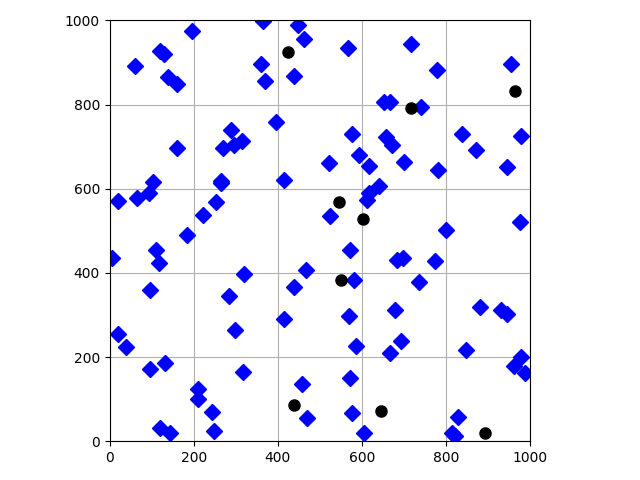
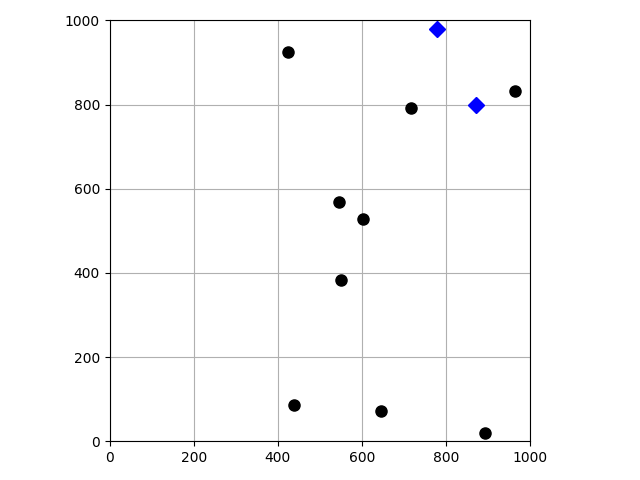
1

diff --git a/system_setting.py b/system_setting.py
@@ -9,13 +9,13 @@ AREA_SIZE = (1000, 1000)  # meter
 AP_HEIGHT = 15  # meter
 USER_HEIGHT = 1.65  # meter
 STD_SH = 8  # dB
-CARRIER_FREQ = 1.9*(10**9) # Hz
+CARRIER_FREQ = 1.9*(10**3) # MHz
 L = 46.3 + 33.9*np.log10(CARRIER_FREQ) \
         - 13.82*np.log10(AP_HEIGHT) \
         - (1.1*np.log10(CARRIER_FREQ) - 0.7)*USER_HEIGHT \
         + 1.56*np.log10(CARRIER_FREQ) - 0.8
-D0, D1 = 10, 50  # mters
-RHO = 0.1 / (7.2*10**-13)
+D0, D1 = 10, 50  # meters
+OMEGA = 0.1 / (7.2*10**-13)
 
 np.set_printoptions(precision=2)
 
@@ -28,12 +28,14 @@ def main(n_user, n_pilot, n_ap, seed, save_path):
         user_positions, ap_positions, is_wrapped=True)
     path_loss = get_path_loss(user2ap_distances)
     beta = get_largeScale_coeff(path_loss)
+    print(beta)
     random_n_users = get_random_users(n_user, n_pilot)
     # worst_users = get_worst_users(beta, n_pilot)
     occupancy = preallocate(random_n_users, n_pilot)
     x = get_x(n_user, random_n_users)
     x_neighbors, x_j0 = get_subsets(x)
     y = get_y(x, occupancy, n_pilot, beta)
+    print("y\n",y)
     if save_path == "debug":
         plot_positions(user_positions, ap_positions,
                        save_path, seed)
@@ -41,14 +43,18 @@ def main(n_user, n_pilot, n_ap, seed, save_path):
         json.dump(x_neighbors, f, indent=2)
     with open(os.path.join(save_path, f"x_j0_{seed}.json"), 'w') as f:
         json.dump(x_j0, f, indent=2)
-    np.save(os.path.join(
-        save_path, f"user_positions_{seed}.npy"), user_positions)
-    np.save(os.path.join(
-        save_path, f"ap_positions_{seed}.npy"), ap_positions)
+    np.save(os.path.join(save_path, f"user_positions_{seed}.npy"), user_positions)
+    np.save(os.path.join(save_path, f"ap_positions_{seed}.npy"), ap_positions)
     np.save(os.path.join(save_path, f"occupancy_{seed}.npy"), occupancy)
     np.save(os.path.join(save_path, f"beta_{seed}.npy"), beta)
     np.save(os.path.join(save_path, f"x_{seed}.npy"), x)
     np.save(os.path.join(save_path, f"y_{seed}.npy"), y)
+    # np.savetxt(os.path.join(save_path, f"user_positions_{seed}.csv"), user_positions, delimiter=',')
+    # np.savetxt(os.path.join(save_path, f"ap_positions_{seed}.csv"), ap_positions, delimiter=',')
+    # np.savetxt(os.path.join(save_path, f"occupancy_{seed}.csv"), occupancy, delimiter=',')
+    # np.savetxt(os.path.join(save_path, f"beta_{seed}.csv"), beta, delimiter=',')
+    # np.savetxt(os.path.join(save_path, f"x_{seed}.csv"), x, delimiter=',')
+    # np.savetxt(os.path.join(save_path, f"y_{seed}.csv"), y, delimiter=',')
     np.savetxt(os.path.join(save_path, f"y_{seed}.csv"), y, delimiter=',')
 
 
@@ -97,7 +103,8 @@ def get_path_loss(user2ap_distances):
 
 def get_largeScale_coeff(path_loss):
     z = np.random.normal(size=np.shape(path_loss))
-    return path_loss*10**(STD_SH*z/10)
+    # return path_loss*10**(STD_SH*z/10)
+    return 10**((path_loss+STD_SH*z)/10)
 
 
 def get_random_users(n_user, n_pilot):
@@ -136,23 +143,25 @@ def get_x(n_user, worst_users):
 
 
 def get_rate(k, roommates, beta, n_pilot):
-    return (1-n_pilot/200)*(np.log2(1+get_sinr(k, roommates, beta)))
+    return (1-n_pilot/200)*(np.log2(1+get_sinr(k, roommates, beta, n_pilot)))
 
 
-def get_sinr(user, roommates, beta):
-    gamma = get_gamma(user, roommates, beta)
-    ds = np.sum(gamma)**2
-    bu = np.sum(gamma*np.sum(beta[roommates], axis=0))
-    ui = np.sum(gamma*np.sum(beta[roommates], axis=0)/beta[user]) ** 2
+def get_sinr(user, roommates, beta, n_pilot):
+    gamma = get_gamma(user, roommates, beta, n_pilot)
+    ds = OMEGA * np.sum(gamma)**2
+    bu = OMEGA * np.sum(gamma*np.sum(beta[roommates], axis=0))
+    ui = OMEGA * np.sum(gamma*np.sum(beta[roommates], axis=0)/beta[user]) ** 2
     return ds / (bu + ui + np.sum(gamma))
 
 
-def get_gamma(user, roommates, beta):
-    return np.sqrt(20)*beta[user]*get_c(user, roommates, beta)
+def get_gamma(user, roommates, beta, n_pilot):
+    return n_pilot*OMEGA * beta[user]**2 / (n_pilot*OMEGA*(np.sum(beta[roommates], axis=0))+1)
 
+# def get_gamma(user, roommates, beta, n_pilot):
+#     return np.sqrt(n_pilot*OMEGA)*beta[user]*get_c(user, roommates, beta, n_pilot)
 
-def get_c(user, roommates, beta):
-    return beta[user] / (np.sqrt(20)*(np.sum(beta[roommates], axis=0))+1)
+# def get_c(user, roommates, beta, n_pilot):
+#     return np.sqrt(n_pilot*OMEGA) * beta[user] / (n_pilot*OMEGA*(np.sum(beta[roommates], axis=0))+1)
 
 
 def get_neighbor_indices(x, idx):
@@ -223,4 +232,4 @@ def plot_positions(user_positions, ap_positions,
 
 
 if __name__ == "__main__":
-    main(n_user=9, n_pilot=3, n_ap=100, seed=0, save_path="debug")
+    main(n_user=9, n_pilot=3, n_ap=2, seed=0, save_path="debug")

diff --git a/main.py b/main.py
@@ -19,7 +19,7 @@ def main():
         # print("."*20 + f"n_user: {n_user}" + "."*20)
         save_path = make_folder(n_user)
         n_pilot=int(n_user/3)
-        for n_repeat in tqdm(range(N_REPEAT), desc=f"{n_user}users"):
+        for n_repeat in range(N_REPEAT):
             ss.main(n_user=n_user, n_pilot=n_pilot, n_ap=100,
                     seed=n_repeat, save_path=save_path)
             (convergence_time, n_iter,
@@ -30,10 +30,10 @@ def main():
                                                 save_path=save_path)
             sum_rates_gd[i, n_repeat] = gd.main(n_user=n_user, n_pilot=n_pilot,
                                                 seed=n_repeat, save_path=save_path)
-            # print(f"Simul#{n_repeat} - " +
-            #       f"SP: {sum_rates[i, n_repeat]:.2f}({convergence_time: .2f}s/{n_iter}itr), " + 
-            #       f"HH:{sum_rates_hh[i, n_repeat]:.2f}, " +
-            #       f"GD:{sum_rates_gd[i, n_repeat]:.2f}")
+            print(f"Simul#{n_repeat} - " +
+                  f"SP({convergence_time:.2f}s/{n_iter}itr): {sum_rates[i, n_repeat]:.2f}, " + 
+                  f"HH:{sum_rates_hh[i, n_repeat]:.2f}, " +
+                  f"GD:{sum_rates_gd[i, n_repeat]:.2f}")
     
             np.save(f"sumrates_SP_{n_user}users.npy", sum_rates[i, :n_repeat+1])
             np.save(f"sumrates_HH_{n_user}users.npy", sum_rates_hh[i, :n_repeat+1])
